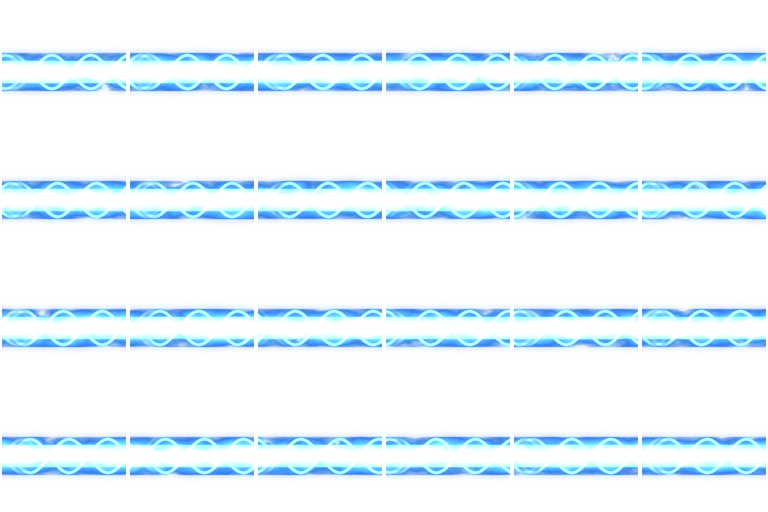
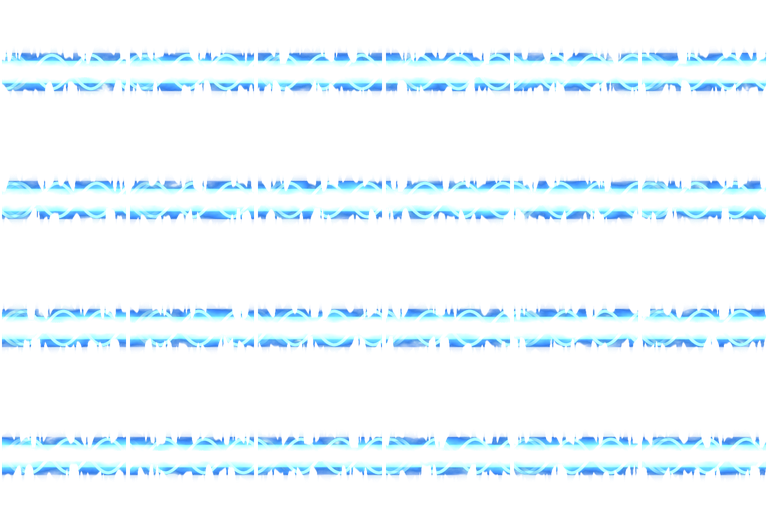
Onda 3D do Astral: borda do feixe irregular (pontas de chama)
Claude-Session: https://claude.ai/code/session_016A3jQ5CZAnkWBa3KCHDBFj

diff --git a/index.html b/index.html
@@ -13,5 +13,5 @@
 <section id="modeScreen" class="app-screen" hidden></section><div id="shopConfirm" hidden></div>
 <div id="integrationLoading" role="status" aria-live="polite"><span class="eyebrow">ELDORIA</span><h2>Iniciando Arena dos Campeões…</h2><p id="bootStage">Preparando menus e personagens.</p></div>
 <script src="js/diagnostico.js"></script>
-<script src="js/config_teste.js?v=5"></script><script src="js/carga_preguicosa.js?v=5"></script><script src="js/jogo.js?v=53"></script><script src="js/identidades_campeoes.js?v=12"></script><script src="js/seis_identidades.js?v=21"></script><script src="js/impactos_futuros.js?v=19"></script><script src="js/arena_horizontal.js?v=18"></script><script src="js/lobby_real.js?v=11"></script><script src="js/menus_simples.js?v=20"></script><script src="js/pixel_sprite.js?v=8"></script><script src="js/combate_identidades.js?v=29"></script><script src="js/combate_seis.js?v=28"></script><script src="js/arte_identidades.js?v=37"></script><script src="js/arte_seis.js?v=29"></script><script src="js/interface_identidades.js?v=12"></script><script src="js/interface_seis.js?v=11"></script><script src="js/arena_arte.js?v=17"></script><script src="js/layout_fixo.js?v=19"></script><script src="js/ninja_v22.js?v=27"></script><script src="js/corpos_v24.js?v=30"></script><script src="js/ninja_v25.js?v=26"></script><script src="js/acoes_universais.js?v=26"></script><script src="js/ichigo_v27.js?v=33"></script><script src="js/solar_v29.js?v=35"></script><script src="js/eclipse_v30.js?v=35"></script><script src="js/poses_v35.js?v=36"></script><script src="js/hunter_v32.js?v=37"></script><script src="js/heir_v33.js?v=39"></script><script src="js/corsair_v36.js?v=39"></script><script src="js/recuperar_artes.js?v=21"></script><script src="js/ui_escala.js?v=4"></script><script src="js/chefes_base.js?v=2"></script><script src="js/chefes_looks.js?v=1"></script><script src="js/vilao_zorvath.js?v=7"></script><script src="js/efeitos_zorvath_v84.js?v=4"></script><script src="js/cacada_dia.js?v=34"></script><script src="js/zorvath_arte_v78.js?v=8"></script><script src="js/arena_zorvath_v78.js?v=1"></script><script src="js/sala_cacada_v81.js?v=10"></script><script src="js/transformacao_v82.js?v=1"></script><script src="js/dano_chefe_v83.js?v=1"></script><script src="js/chefes_motor.js?v=3"></script><script src="js/chefes_lote.js?v=1"></script><script src="js/menu_v2.js?v=4"></script><script src="js/retencao.js?v=7"></script><script src="js/copia_chefe.js?v=3"></script><script src="js/monstros_v3.js?v=1"></script><script src="js/monstros_familias.js?v=1"></script><script src="js/fase_arcade.js?v=14"></script><script src="js/economia.js?v=2"></script><script src="js/combate_v3.js?v=29"></script><script src="js/hud_v3.js?v=12"></script><script src="js/combate_v3b.js?v=30"></script><script src="js/menus_v3.js?v=3"></script><script src="js/marcas_v3.js?v=7"></script><script src="js/clone_v3.js?v=6"></script><script src="js/bot_v3.js?v=4"></script><script src="js/modos_v3.js?v=6"></script><script src="js/equilibrio_v3.js?v=2"></script><script src="js/kof_v3.js?v=12"></script><script src="js/torneio_v3.js?v=22"></script><script src="js/ko_v3.js?v=3"></script><script src="js/cavaleiro_v3.js?v=2"></script><script src="js/cavaleiro_arte_v37.js?v=37"></script><script src="js/guerreiro_v3.js?v=3"></script><script src="js/ninja_v3.js?v=6"></script><script src="js/ronin_v3.js?v=3"></script><script src="js/solar_v3.js?v=5"></script><script src="js/eclipse_v3.js?v=3"></script><script src="js/alquimista_arte_v38.js?v=44"></script><script src="js/cacador_v3.js?v=94"></script><script src="js/herdeiro_v3.js?v=3"></script><script src="js/corsario_v3.js?v=4"></script><script src="js/alquimista_v3.js?v=1"></script><script src="js/efeitos_v39.js?v=6"></script><script src="js/cenario_v3.js?v=6"></script><script src="js/niveis_v3.js?v=3"></script><script src="js/loja_v3.js?v=4"></script><script src="js/tutorial_v3.js?v=3"></script><script src="js/liga_v3.js?v=4"></script><script src="js/coroa_v3.js?v=3"></script><script src="js/inicio_v40.js?v=33"></script><script src="js/cena_v41.js?v=8"></script><script src="js/perfil_v42.js?v=3"></script><script src="js/telas_v43.js?v=2"></script><script src="js/config_servidor.js?v=4"></script><script src="js/conta_servidor.js?v=1"></script><script src="js/feedback.js?v=2"></script><script src="js/itens_v85.js?v=19"></script><script src="js/online_v45.js?v=30"></script><script src="js/online_luta_v46.js?v=23"></script><script src="js/ping_luta_v70.js?v=3"></script><script src="js/esquiva_detalhe_v71.js?v=4"></script><script src="js/resultado_v72.js?v=1"></script><script src="js/descricoes_v72.js?v=1"></script><script src="js/polimento_v73.js?v=8"></script><script src="js/emblemas_v75.js?v=5"></script><script src="js/reportar_v77.js?v=2"></script><script src="js/amigos_v68.js?v=5"></script><script src="js/detalhe_celular_v69.js?v=1"></script><script src="js/precarga_dados.js?v=1"></script><script src="js/carregamento_v51.js?v=8"></script><script src="js/sem_arte_antiga.js?v=2"></script><script src="js/medidor_fps.js?v=1"></script><script src="js/iniciar.js"></script><script src="js/fase_teste.js?v=1"></script><script src="js/pc_ui.js?v=1"></script><script src="js/tela_cheia.js?v=17"></script></body></html>
+<script src="js/config_teste.js?v=5"></script><script src="js/carga_preguicosa.js?v=5"></script><script src="js/jogo.js?v=53"></script><script src="js/identidades_campeoes.js?v=12"></script><script src="js/seis_identidades.js?v=21"></script><script src="js/impactos_futuros.js?v=19"></script><script src="js/arena_horizontal.js?v=18"></script><script src="js/lobby_real.js?v=11"></script><script src="js/menus_simples.js?v=20"></script><script src="js/pixel_sprite.js?v=8"></script><script src="js/combate_identidades.js?v=29"></script><script src="js/combate_seis.js?v=28"></script><script src="js/arte_identidades.js?v=37"></script><script src="js/arte_seis.js?v=30"></script><script src="js/interface_identidades.js?v=12"></script><script src="js/interface_seis.js?v=11"></script><script src="js/arena_arte.js?v=17"></script><script src="js/layout_fixo.js?v=19"></script><script src="js/ninja_v22.js?v=27"></script><script src="js/corpos_v24.js?v=30"></script><script src="js/ninja_v25.js?v=26"></script><script src="js/acoes_universais.js?v=26"></script><script src="js/ichigo_v27.js?v=33"></script><script src="js/solar_v29.js?v=35"></script><script src="js/eclipse_v30.js?v=35"></script><script src="js/poses_v35.js?v=36"></script><script src="js/hunter_v32.js?v=37"></script><script src="js/heir_v33.js?v=39"></script><script src="js/corsair_v36.js?v=39"></script><script src="js/recuperar_artes.js?v=21"></script><script src="js/ui_escala.js?v=4"></script><script src="js/chefes_base.js?v=2"></script><script src="js/chefes_looks.js?v=1"></script><script src="js/vilao_zorvath.js?v=7"></script><script src="js/efeitos_zorvath_v84.js?v=4"></script><script src="js/cacada_dia.js?v=34"></script><script src="js/zorvath_arte_v78.js?v=8"></script><script src="js/arena_zorvath_v78.js?v=1"></script><script src="js/sala_cacada_v81.js?v=10"></script><script src="js/transformacao_v82.js?v=1"></script><script src="js/dano_chefe_v83.js?v=1"></script><script src="js/chefes_motor.js?v=3"></script><script src="js/chefes_lote.js?v=1"></script><script src="js/menu_v2.js?v=4"></script><script src="js/retencao.js?v=7"></script><script src="js/copia_chefe.js?v=3"></script><script src="js/monstros_v3.js?v=1"></script><script src="js/monstros_familias.js?v=1"></script><script src="js/fase_arcade.js?v=14"></script><script src="js/economia.js?v=2"></script><script src="js/combate_v3.js?v=29"></script><script src="js/hud_v3.js?v=12"></script><script src="js/combate_v3b.js?v=30"></script><script src="js/menus_v3.js?v=3"></script><script src="js/marcas_v3.js?v=7"></script><script src="js/clone_v3.js?v=6"></script><script src="js/bot_v3.js?v=4"></script><script src="js/modos_v3.js?v=6"></script><script src="js/equilibrio_v3.js?v=2"></script><script src="js/kof_v3.js?v=12"></script><script src="js/torneio_v3.js?v=22"></script><script src="js/ko_v3.js?v=3"></script><script src="js/cavaleiro_v3.js?v=2"></script><script src="js/cavaleiro_arte_v37.js?v=37"></script><script src="js/guerreiro_v3.js?v=3"></script><script src="js/ninja_v3.js?v=6"></script><script src="js/ronin_v3.js?v=3"></script><script src="js/solar_v3.js?v=5"></script><script src="js/eclipse_v3.js?v=3"></script><script src="js/alquimista_arte_v38.js?v=44"></script><script src="js/cacador_v3.js?v=94"></script><script src="js/herdeiro_v3.js?v=3"></script><script src="js/corsario_v3.js?v=4"></script><script src="js/alquimista_v3.js?v=1"></script><script src="js/efeitos_v39.js?v=6"></script><script src="js/cenario_v3.js?v=6"></script><script src="js/niveis_v3.js?v=3"></script><script src="js/loja_v3.js?v=4"></script><script src="js/tutorial_v3.js?v=3"></script><script src="js/liga_v3.js?v=4"></script><script src="js/coroa_v3.js?v=3"></script><script src="js/inicio_v40.js?v=33"></script><script src="js/cena_v41.js?v=8"></script><script src="js/perfil_v42.js?v=3"></script><script src="js/telas_v43.js?v=2"></script><script src="js/config_servidor.js?v=4"></script><script src="js/conta_servidor.js?v=1"></script><script src="js/feedback.js?v=2"></script><script src="js/itens_v85.js?v=19"></script><script src="js/online_v45.js?v=30"></script><script src="js/online_luta_v46.js?v=23"></script><script src="js/ping_luta_v70.js?v=3"></script><script src="js/esquiva_detalhe_v71.js?v=4"></script><script src="js/resultado_v72.js?v=1"></script><script src="js/descricoes_v72.js?v=1"></script><script src="js/polimento_v73.js?v=8"></script><script src="js/emblemas_v75.js?v=5"></script><script src="js/reportar_v77.js?v=2"></script><script src="js/amigos_v68.js?v=5"></script><script src="js/detalhe_celular_v69.js?v=1"></script><script src="js/precarga_dados.js?v=1"></script><script src="js/carregamento_v51.js?v=8"></script><script src="js/sem_arte_antiga.js?v=2"></script><script src="js/medidor_fps.js?v=1"></script><script src="js/iniciar.js"></script><script src="js/fase_teste.js?v=1"></script><script src="js/pc_ui.js?v=1"></script><script src="js/tela_cheia.js?v=17"></script></body></html>
 

diff --git a/js/arte_seis.js b/js/arte_seis.js
@@ -1,7 +1,7 @@
 'use strict';
 const KI_ORB_IMAGE=rwImage('assets/reforged_v10/ki-orb.webp');
 const ASTRAL_COMBO_VFX=rwImage('assets/reforged_v10/astral-combo-vfx.webp');
-const ASTRAL_WAVE_ART=Object.fromEntries(['charge','beam','impact'].map(k=>[k,rwImage('assets/reforged_v10/'+(/[?&]onda3d=1/.test(location.search)?'wave3d-':'wave-')+k+'.webp')]));   // ?onda3d=1: prévia da Onda feita em 3D no Blender
+const ASTRAL_WAVE_ART=Object.fromEntries(['charge','beam','impact'].map(k=>[k,rwImage('assets/reforged_v10/'+(/[?&]onda3d=1/.test(location.search)?'wave3d-':'wave-')+k+'.webp'+(/[?&]onda3d=1/.test(location.search)?'?v=2':''))]));   // ?onda3d=1: prévia da Onda feita em 3D no Blender
 const ASTRAL14_ART=Object.fromEntries(['body','blink','aura','solar','blast'].map(k=>[k,rwImage('assets/reforged_v10/astral14-'+k+'.webp')]));
 CHAMPION_HEROES.astral='assets/astral_v18/portrait.webp';
 const astralPreviousChampionArt=championArt;

diff --git a/fonte_3d/onda_astral/monta_folhas.py b/fonte_3d/onda_astral/monta_folhas.py
@@ -10,14 +10,35 @@ def folha(q,crop=None):
     f=Image.new('RGBA',(768,512),(0,0,0,0))
     for i,n in enumerate(sorted(os.listdir(f'{B}/{q}'))[:24]):
         im=rgba(Image.open(f'{B}/{q}/{n}'))
-        if crop:im=crop(im)
+        if crop:im=crop(im,i)
         f.alpha_composite(im.resize((128,128),Image.LANCZOS),(i%6*128,i//6*128))
     return f
-def feixe(im):
+def borda(a,i):
+    # borda irregular: o contorno do feixe sobe e desce como chama/raio; ruído periódico na largura (o pedaço repete sem emenda)
+    h,w=a.shape[:2];x=np.arange(w)/w*2*np.pi;rng=np.random.default_rng(7)
+    ph=rng.uniform(0,6.28,(2,8))
+    def onda(lado):
+        r=np.zeros(w)
+        for k,amp in enumerate([.55,.45,.38,.3,.2,.12,.08,.05,.03,.02]):
+            fq=[2,3,5,7,9,11,13,16,19,23][k];r+=amp*np.sin(fq*x+ph[lado,k%8]*(k+1)+i*(.8+.31*k)*(1 if k%2 else -1))
+        r=r/1.4
+        pico=np.maximum(0,np.sin(6*x+ph[lado,1]*3-i*1.1))**8*1.6+np.maximum(0,np.sin(11*x+ph[lado,2]*5+i*1.7))**10*1.1   # pontas de chama/raio
+        return r+pico
+    al=a[...,3].astype(float)/255;ys=np.nonzero(al.max(1)>.05)[0]
+    cy=(ys.min()+ys.max())/2;meia=(ys.max()-ys.min())/2
+    yy=np.arange(h)[:,None]
+    for lado,sinal in [(0,-1),(1,1)]:
+        lim=meia*np.clip(.66+.48*onda(lado),.3,1.3)[None,:]
+        d=(yy-cy)*sinal
+        m=np.clip(1-(d-lim)/(meia*.08),0,1);m=np.where(d<0,1,m)
+        al=al*m
+    a[...,3]=(al*255).astype('uint8');return a
+def feixe(im,i=0):
     w,h=im.size;x0=w//3;n=h;k=n//4
     a=np.array(im.crop((x0,0,x0+n,h))).astype(float);b=np.array(im.crop((x0+n,0,x0+n+k,h))).astype(float)
     for x in range(k):t=x/k;a[:,x]=a[:,x]*t+b[:,x]*(1-t)   # emenda: o fim encaixa no começo
-    cel=Image.new('RGBA',(256,256),(0,0,0,0));cel.alpha_composite(Image.fromarray(a.astype('uint8'),'RGBA').resize((248,224)),(4,32));return cel
+    a=borda(a.astype('uint8'),i)
+    cel=Image.new('RGBA',(256,256),(0,0,0,0));cel.alpha_composite(Image.fromarray(a,'RGBA').resize((248,224)),(4,32));return cel
 dst='/home/user/eudoria/assets/reforged_v10/'
 folha('carga').save(dst+'wave3d-charge.webp',lossless=True)
 folha('impacto').save(dst+'wave3d-impact.webp',lossless=True)
